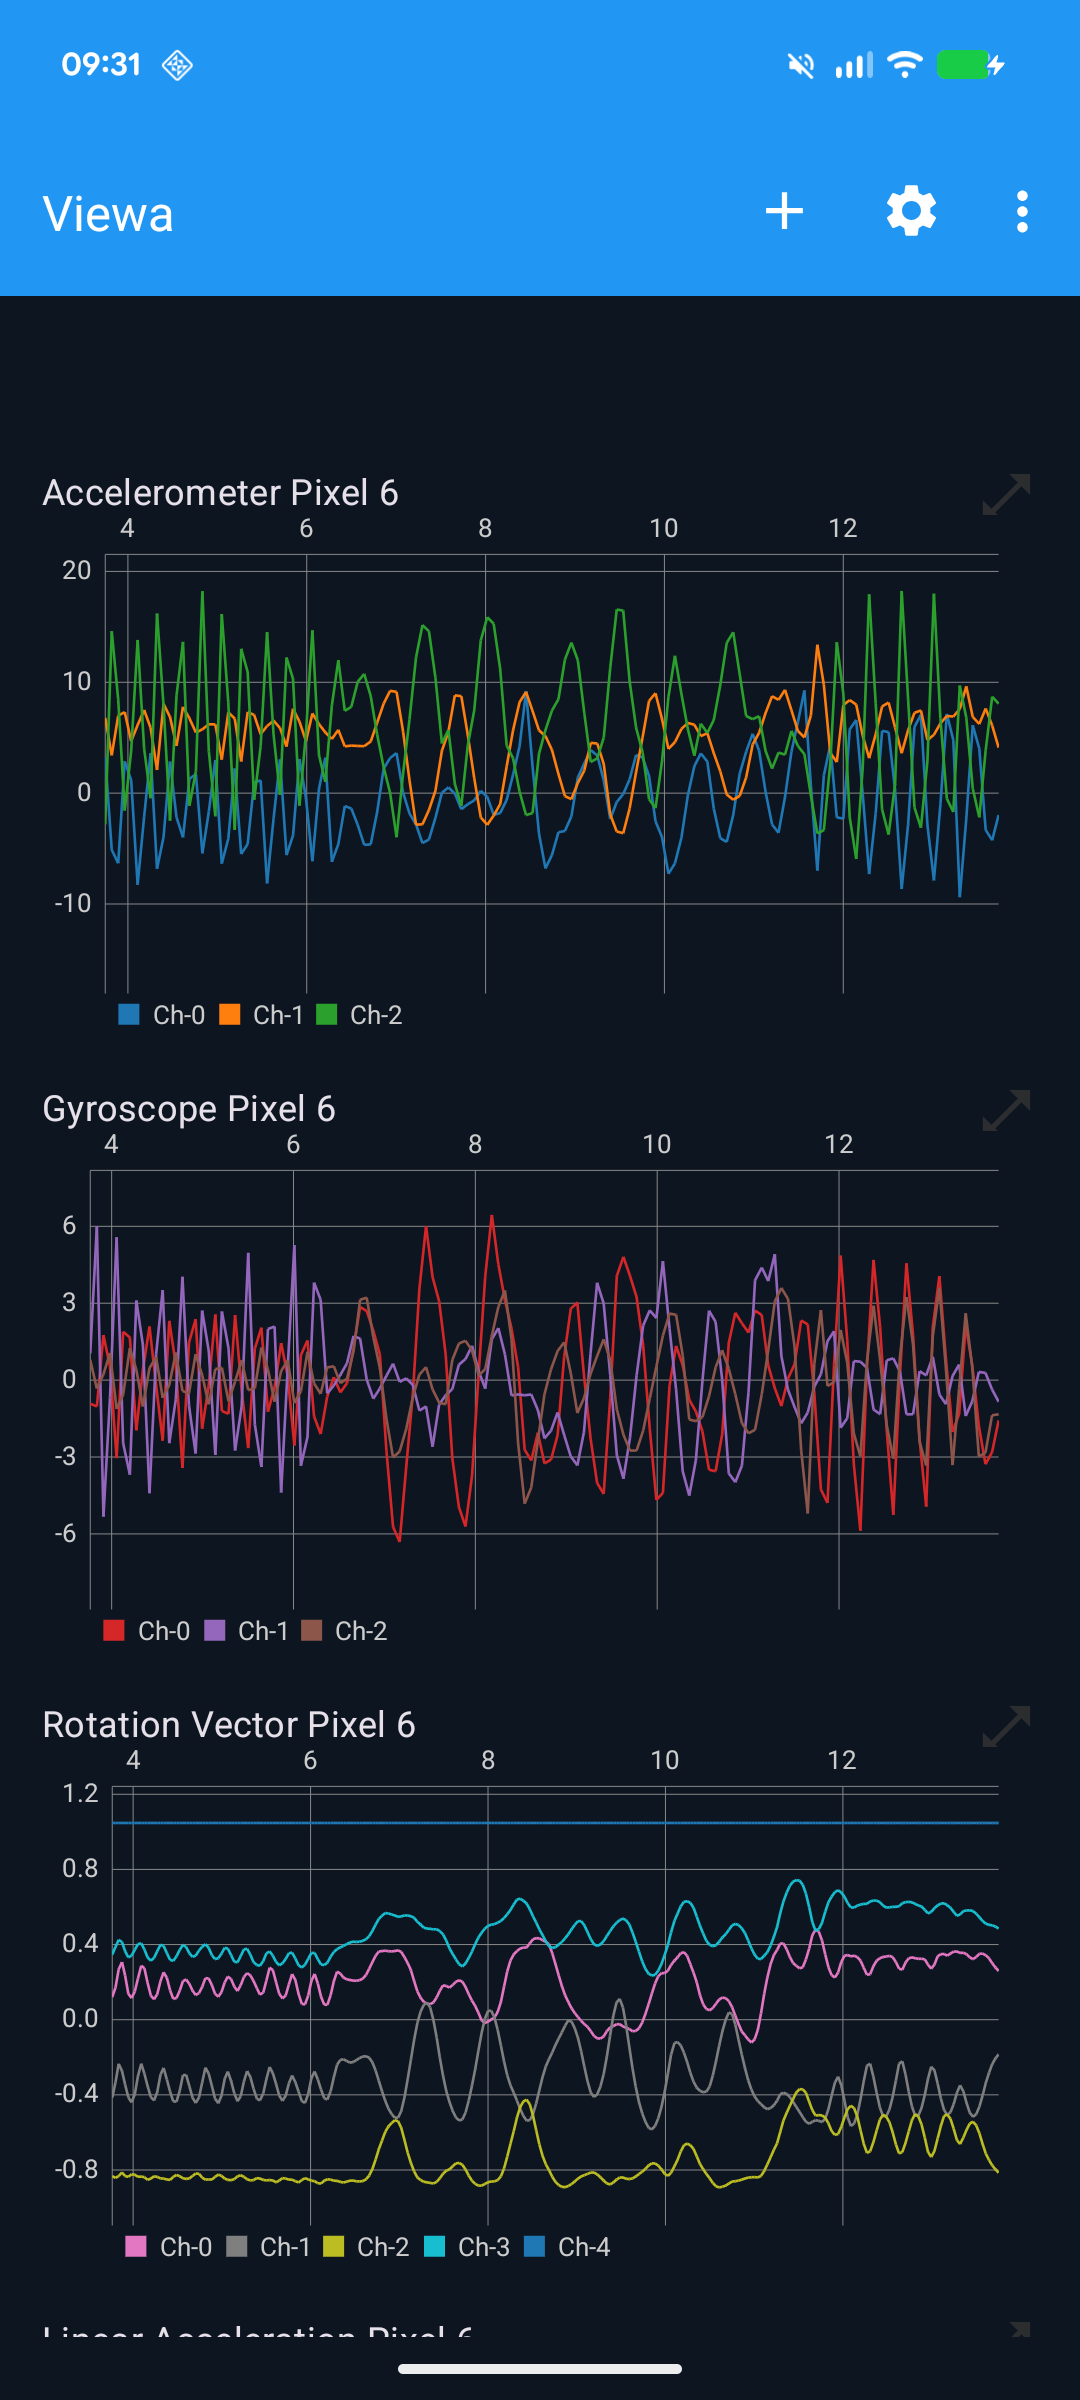
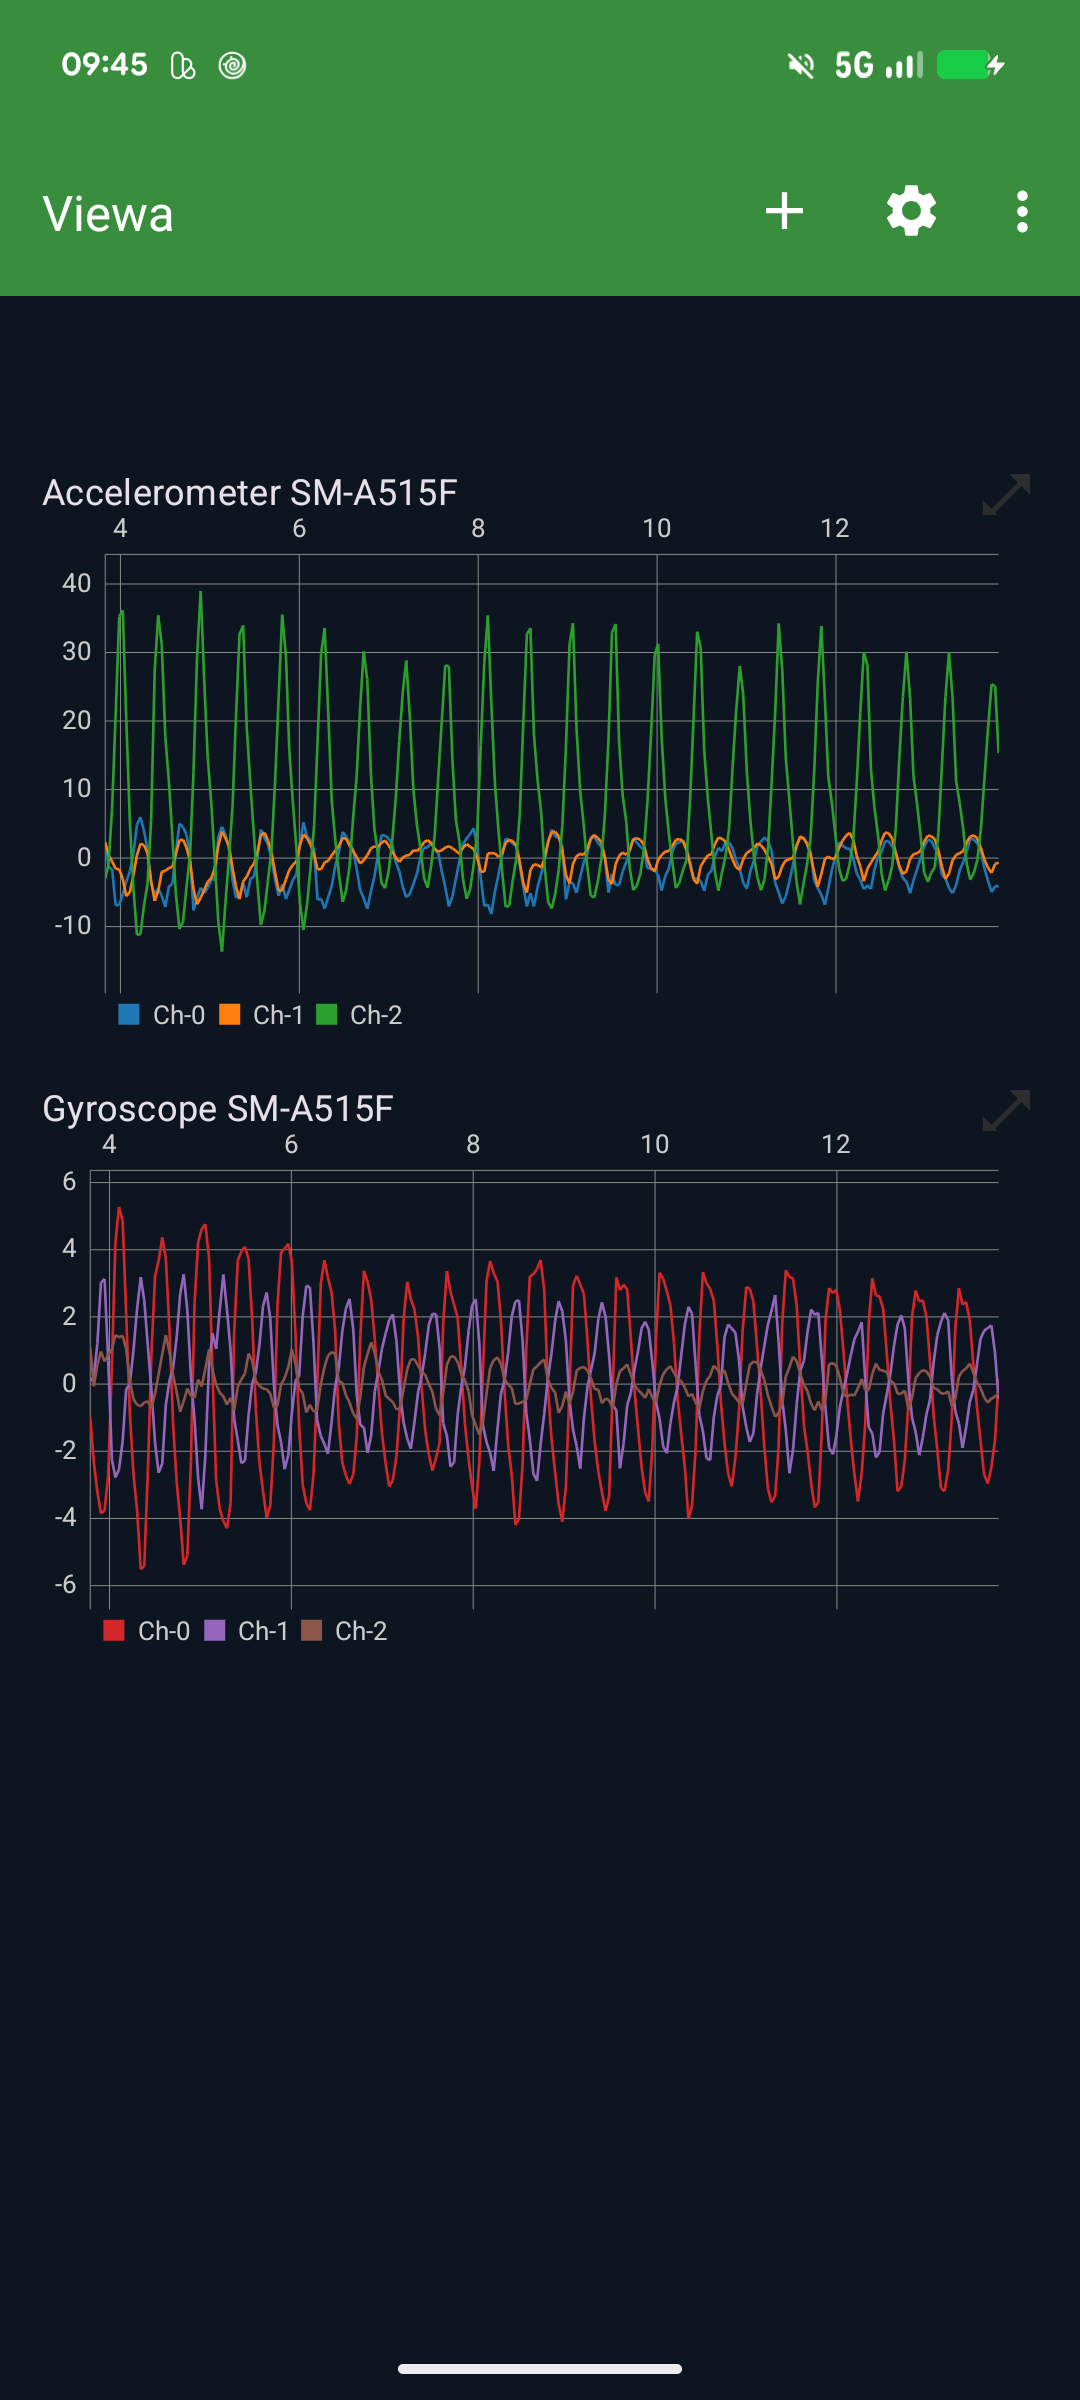
update readme and change color to green

diff --git a/README.md b/README.md
@@ -16,7 +16,7 @@
 
 > **If you use VIEWA in your research, please cite the following publication:**
 >
-> Haupt et al. — *Title TBA upon publication* — accepted. Citation will be updated once a DOI is available.
+> Haupt T, Maanen P, Daeglau M et al. — Enhancing mobile brain and body imaging: Open-source solutions for real-world research applications. *iScience*, 2026; 29.
 
 VIEWA is provided **without any warranty**, and without guarantee of fitness for a particular purpose. Use it at your own risk. See [LICENSE](LICENSE) for the full terms.
 
